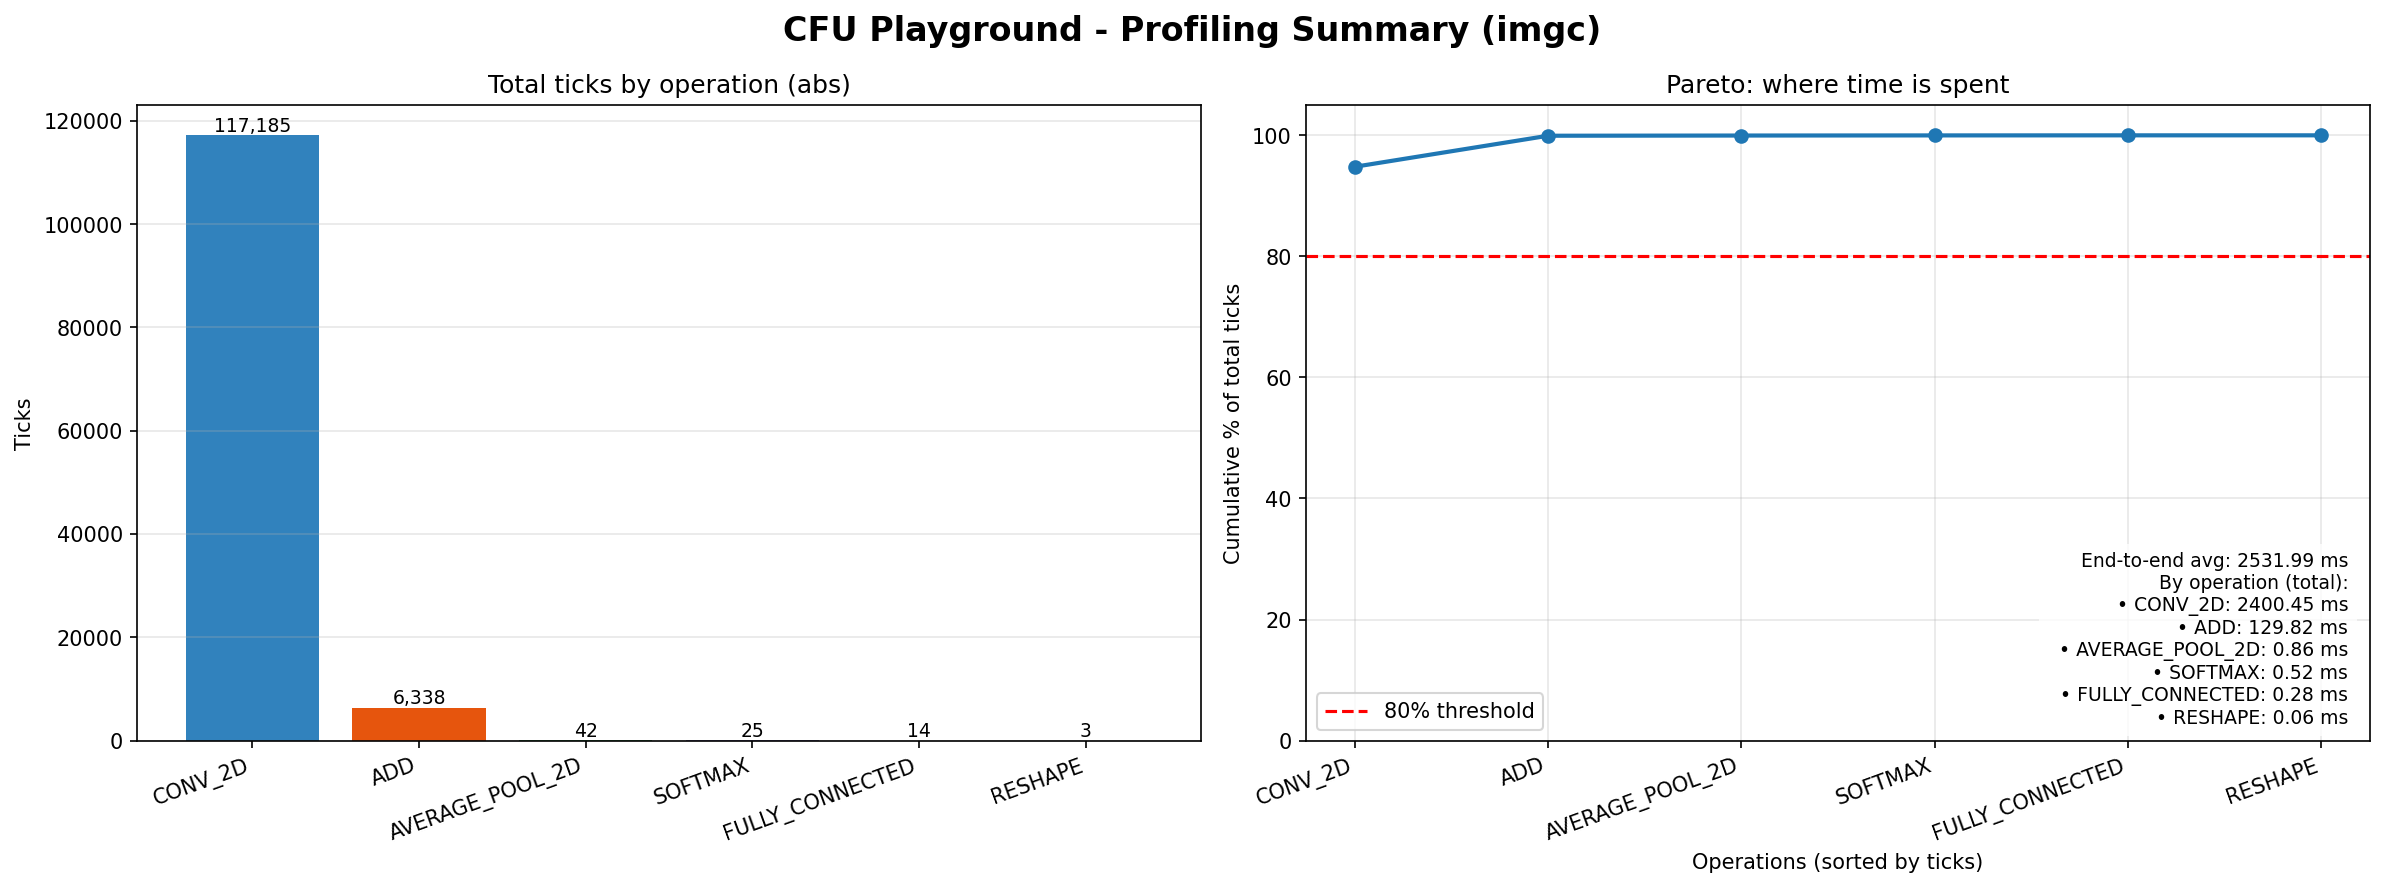
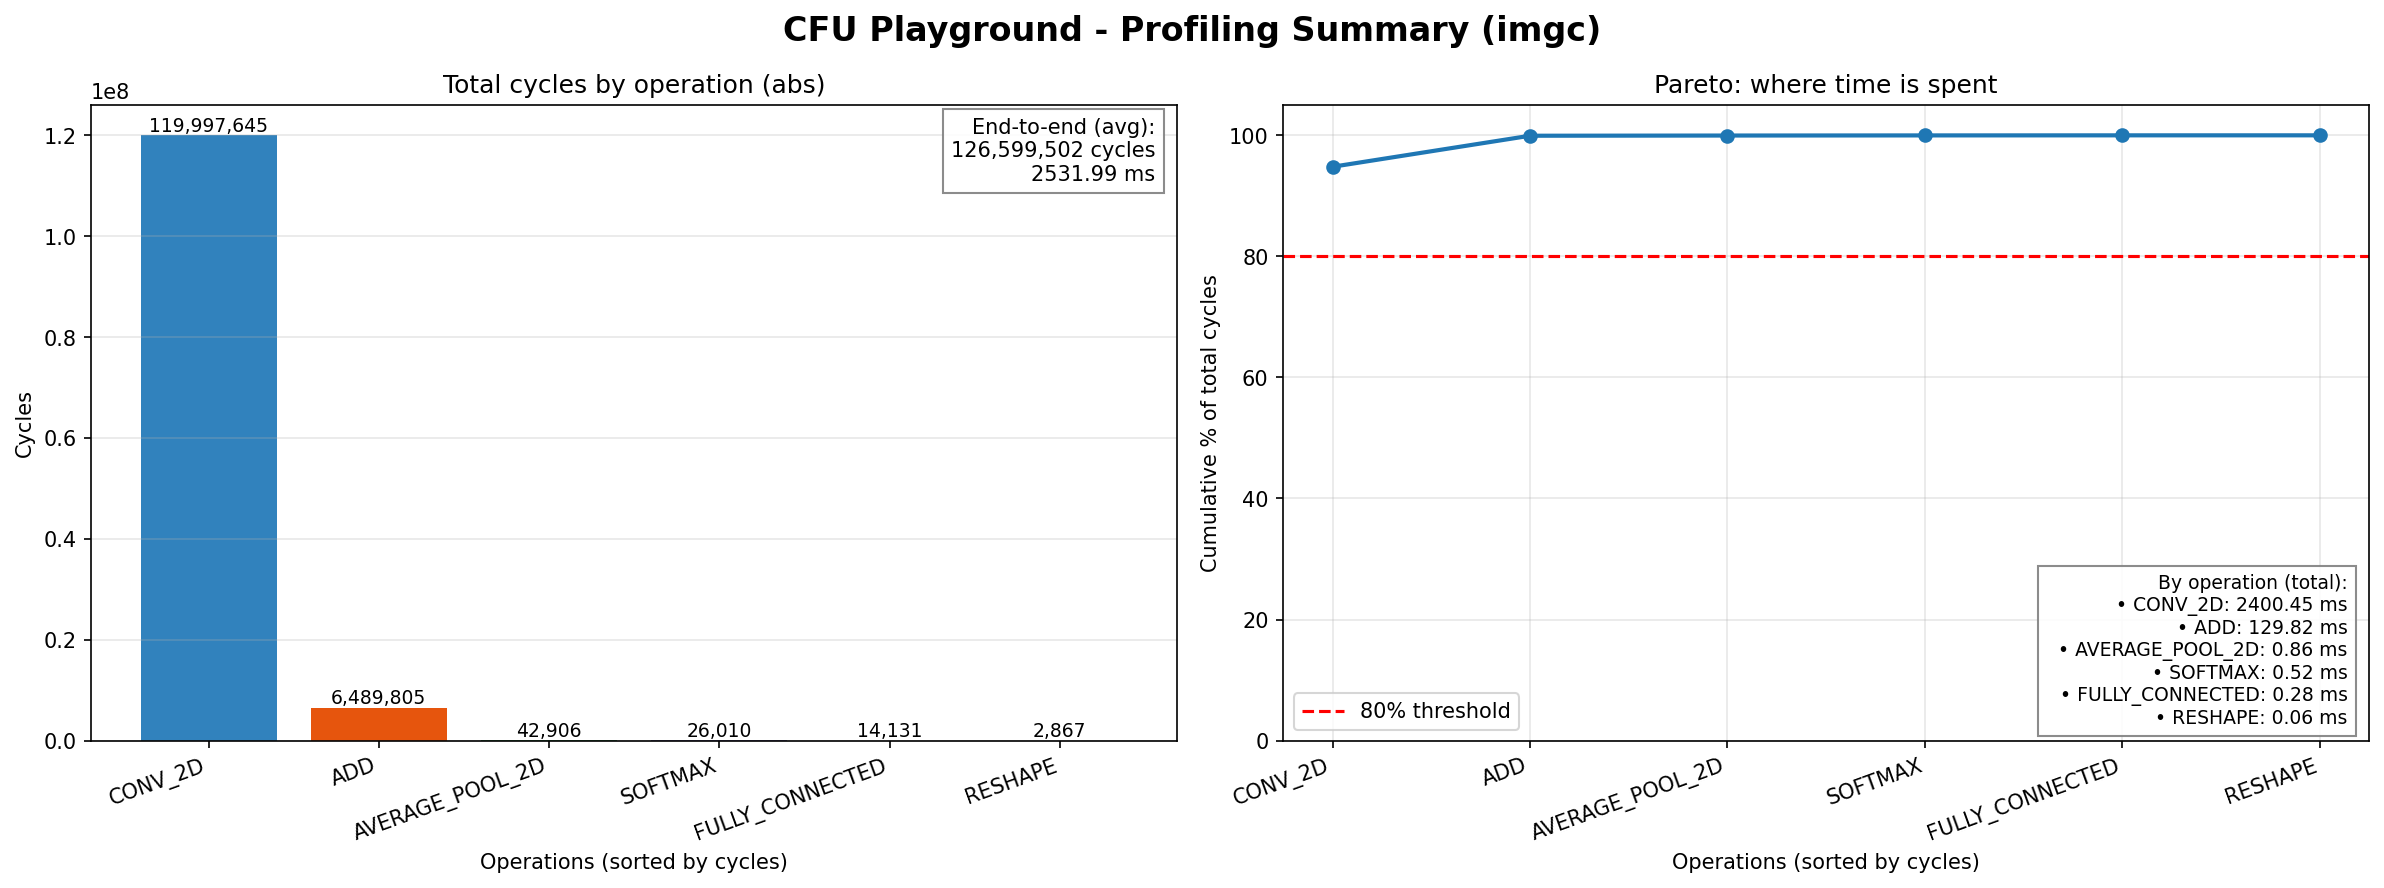
Modified profile_layers.py (Changed diagrams and added CSV export)

diff --git a/proj/multiplication_cfu/profiling/profile_layers.py b/proj/multiplication_cfu/profiling/profile_layers.py
@@ -18,6 +18,7 @@ class LayerProfiler:
         self.total_ms = 0
         self.cycles_runs = []  # Cycles per run (end-to-end)
         self.runs = []  # Saves multiple runs for averaging
+        self.CYCLES_PER_TICK = 1024  # From official docs: 1 tick = 1024 cycles
         
     def parse_output(self, text):
         """Parse test output and extract layer performance from multiple runs"""
@@ -98,10 +99,12 @@ class LayerProfiler:
             if len(set(ids)) == 1 and len(set(ops)) == 1:
                 avg_ticks = np.mean(ticks_list)
                 std_ticks = np.std(ticks_list)
+                avg_cycles = avg_ticks * self.CYCLES_PER_TICK
                 self.layers.append({
                     'id': ids[0],
                     'operation': ops[0],
                     'ticks': avg_ticks,
+                    'cycles': avg_cycles,
                     'std': std_ticks,
                     'ticks_list': ticks_list
                 })
@@ -114,6 +117,71 @@ class LayerProfiler:
         if not self.layers:
             return pd.DataFrame()
         return pd.DataFrame(self.layers)
+
+    def export_csv(self, save_path):
+        """Export per-layer statistics and summary to CSV"""
+        df = self.get_dataframe()
+        if df.empty:
+            print("No data to export!")
+            return
+        if 'cycles' not in df.columns:
+            df['cycles'] = df['ticks'] * self.CYCLES_PER_TICK
+
+        # Round numeric columns for readability
+        df_out = df.copy()
+        df_out['ticks'] = df_out['ticks'].round(0).astype(int)
+        df_out['cycles'] = df_out['cycles'].round(0).astype(int)
+        df_out['std'] = df_out['std'].round(2)
+
+        # Define columns
+        cols = [
+            'id',
+            'operation',
+            'ticks',
+            'cycles',
+            'std',
+            'ticks_list',
+            'end_to_end_cycles',
+            'end_to_end_ms'
+        ]
+
+        # Ensure all columns exist
+        for c in cols:
+            if c not in df_out.columns:
+                df_out[c] = ''
+
+        total_cycles_layers = int(df_out['cycles'].sum()) if not df_out.empty else ''
+        end_to_end_cycles = int(self.total_cycles) if self.total_cycles else ''
+        end_to_end_ms = self.total_ms * 1000.0 if self.total_ms else ''
+
+        # Write per-layer rows (end_to_end columns left blank)
+        df_out[cols].to_csv(save_path, index=False)
+
+        # Append summary rows with the same columns
+        summary_rows = [
+            {
+                'id': '',
+                'operation': 'TOTAL_LAYERS',
+                'ticks': '',
+                'cycles': total_cycles_layers,
+                'std': '',
+                'ticks_list': '',
+                'end_to_end_cycles': '',
+                'end_to_end_ms': ''
+            },
+            {
+                'id': '',
+                'operation': 'END_TO_END',
+                'ticks': '',
+                'cycles': '',
+                'std': '',
+                'ticks_list': '',
+                'end_to_end_cycles': end_to_end_cycles,
+                'end_to_end_ms': end_to_end_ms
+            }
+        ]
+        pd.DataFrame(summary_rows)[cols].to_csv(save_path, mode='a', header=False, index=False)
+        print(f"Saved CSV: {save_path}")
     
     def print_summary(self):
         """Print a concise English summary"""
@@ -122,14 +190,19 @@ class LayerProfiler:
             return
         
         df = self.get_dataframe()
+        # Ensure cycles column exists (for robustness if called early)
+        if 'cycles' not in df.columns:
+            df['cycles'] = df['ticks'] * self.CYCLES_PER_TICK
         total_ticks = df['ticks'].sum()
+        total_cycles_layers = int(df['cycles'].sum())
         
         print("\n" + "="*70)
         print("LAYER PROFILING SUMMARY")
         print("="*70)
         
         print(f"\nLayers: {len(df)}")
-        print(f"Total ticks (layer-summed): {total_ticks:,}")
+        print(f"Total ticks (layer-summed): {int(total_ticks):,}")
+        print(f"Total cycles (layer-summed): {total_cycles_layers:,}")
         print(f"End-to-end cycles (avg over runs): {self.total_cycles:,}")
         if self.total_ms > 0:
             print(f"End-to-end time (avg): {self.total_ms*1000:.3f} ms")
@@ -140,27 +213,27 @@ class LayerProfiler:
             for i, c in enumerate(self.cycles_runs, start=1):
                 print(f"  Run {i}: {c:,} cycles  |  {runs_ms[i-1]:.3f} ms")
         
-        print(f"\nTop bottlenecks (by ticks):")
+        print(f"\nTop bottlenecks (by cycles):")
         print("-" * 70)
-        print(f"{'ID':>3} {'Operation':<20} {'Ticks':>12} {'%':>8} {'Cumsum':>8}")
+        print(f"{'ID':>3} {'Operation':<20} {'Cycles':>12} {'%':>8} {'Cumsum':>8}")
         print("-" * 70)
         
-        # Sort by ticks to show largest contributors
-        df_sorted = df.sort_values('ticks', ascending=False)
+        # Sort by cycles to show largest contributors
+        df_sorted = df.sort_values('cycles', ascending=False)
         cumsum = 0
         for _, row in df_sorted.iterrows():
-            pct = (row['ticks'] / total_ticks) * 100
-            cumsum += row['ticks']
-            cumsum_pct = (cumsum / total_ticks) * 100
-            print(f"{row['id']:3d} {row['operation']:<20} {row['ticks']:>12,} {pct:>7.1f}% {cumsum_pct:>7.1f}%")
+            pct = (row['cycles'] / total_cycles_layers) * 100
+            cumsum += row['cycles']
+            cumsum_pct = (cumsum / total_cycles_layers) * 100
+            print(f"{row['id']:3d} {row['operation']:<20} {int(row['cycles']):>12,} {pct:>7.1f}% {cumsum_pct:>7.1f}%")
         
         print("\n" + "="*70)
         
         # Group by operation type to see where time is spent
         print("\nOperation summary:")
         print("-" * 70)
-        op_summary = df.groupby('operation')['ticks'].agg(['sum', 'count', 'mean']).sort_values('sum', ascending=False)
-        print(f"{'Operation':<20} {'Total':>12} {'Count':>8} {'Average':>12}")
+        op_summary = df.groupby('operation')['cycles'].agg(['sum', 'count', 'mean']).sort_values('sum', ascending=False)
+        print(f"{'Operation':<20} {'Total(cyc)':>12} {'Count':>8} {'Average(cyc)':>12}")
         print("-" * 70)
         for op, row in op_summary.iterrows():
             print(f"{op:<20} {row['sum']:>12,.0f} {row['count']:>8.0f} {row['mean']:>12,.0f}")
@@ -174,8 +247,10 @@ class LayerProfiler:
             return
         
         df = self.get_dataframe()
-        total_ticks = df['ticks'].sum()
-        op_summary_series = df.groupby('operation')['ticks'].sum().sort_values(ascending=False)
+        if 'cycles' not in df.columns:
+            df['cycles'] = df['ticks'] * self.CYCLES_PER_TICK
+        total_cycles = df['cycles'].sum()
+        op_summary_series = df.groupby('operation')['cycles'].sum().sort_values(ascending=False)
         ops = op_summary_series.index.tolist()
         ops_vals = op_summary_series.values
 
@@ -191,19 +266,37 @@ class LayerProfiler:
         ax1.bar(range(len(ops)), ops_vals, color=colors_bar)
         ax1.set_xticks(range(len(ops)))
         ax1.set_xticklabels(ops, rotation=20, ha='right')
-        ax1.set_ylabel('Ticks')
-        ax1.set_title('Total ticks by operation (abs)')
+        ax1.set_ylabel('Cycles')
+        ax1.set_title('Total cycles by operation (abs)')
+        ax1.set_xlabel('Operations (sorted by cycles)')
         for i, v in enumerate(ops_vals):
             ax1.text(i, v, f"{v:,.0f}", ha='center', va='bottom', fontsize=9)
         ax1.grid(axis='y', alpha=0.3)
+        
+        # Add end-to-end cycles + ms info to left plot
+        e2e_ms = self.total_ms * 1000.0 if self.total_ms else None
+        if e2e_ms is not None:
+            e2e_cycles_text = f"End-to-end (avg):\n{self.total_cycles:,} cycles\n{e2e_ms:.2f} ms"
+        else:
+            e2e_cycles_text = f"End-to-end (avg):\n{self.total_cycles:,} cycles\nms: n/a"
+        ax1.text(
+            0.98,
+            0.98,
+            e2e_cycles_text,
+            transform=ax1.transAxes,
+            va='top',
+            ha='right',
+            fontsize=10,
+            bbox=dict(facecolor='white', alpha=0.9, edgecolor='gray', linewidth=1)
+        )
 
         # Plot 2: Pareto across operations
         cumulative = op_summary_series.cumsum()
-        cumulative_pct = (cumulative / total_ticks) * 100
+        cumulative_pct = (cumulative / total_cycles) * 100
         ax3.plot(range(len(cumulative)), cumulative_pct, 'o-', linewidth=2, markersize=6)
         ax3.axhline(y=80, color='r', linestyle='--', label='80% threshold')
-        ax3.set_xlabel('Operations (sorted by ticks)')
-        ax3.set_ylabel('Cumulative % of total ticks')
+        ax3.set_xlabel('Operations (sorted by cycles)')
+        ax3.set_ylabel('Cumulative % of total cycles')
         ax3.set_title('Pareto: where time is spent')
         ax3.set_xticks(range(len(ops)))
         ax3.set_xticklabels(ops, rotation=20, ha='right')
@@ -217,15 +310,11 @@ class LayerProfiler:
         by_op_ms = []
         if e2e_ms is not None:
             for op, ticks in op_summary_series.items():
-                proportion = ticks / total_ticks
+                proportion = ticks / total_cycles
                 op_time_ms = proportion * e2e_ms
                 by_op_ms.append((op, op_time_ms))
         
         lines = []
-        if e2e_ms is not None:
-            lines.append(f"End-to-end avg: {e2e_ms:.2f} ms")
-        else:
-            lines.append("End-to-end avg: n/a")
         lines.append("By operation (total):")
         for op, ms in by_op_ms:
             lines.append(f"  • {op}: {ms:.2f} ms")
@@ -238,7 +327,7 @@ class LayerProfiler:
             va='bottom',
             ha='right',
             fontsize=9,
-            bbox=dict(facecolor='white', alpha=0.8, edgecolor='none')
+            bbox=dict(facecolor='white', alpha=0.9, edgecolor='gray', linewidth=1)
         )
         
         plt.tight_layout()
@@ -246,8 +335,6 @@ class LayerProfiler:
         if save_path:
             plt.savefig(save_path, dpi=150, bbox_inches='tight')
             print(f"Saved: {save_path}")
-        
-        plt.show()
 
 
 def main():
@@ -272,11 +359,13 @@ def main():
     profiling_dir = input_path.parent
     stem = input_path.stem
     output_png = profiling_dir / f"{stem}.png"
+    output_csv = profiling_dir / f"{stem}.csv"
     
     # Extract model name from filename ("profile_pdti8" -> "pdti8")
     model_name = stem.replace("profile_", "") if stem.startswith("profile_") else stem
     
     profiler.plot_summary(save_path=str(output_png), model_name=model_name)
+    profiler.export_csv(str(output_csv))
 
 
 if __name__ == '__main__':
